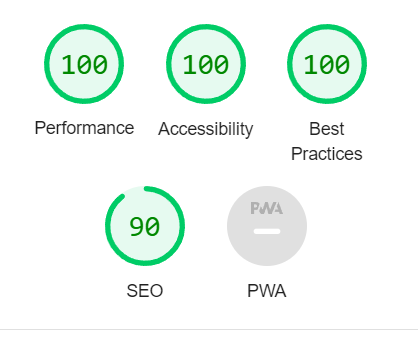
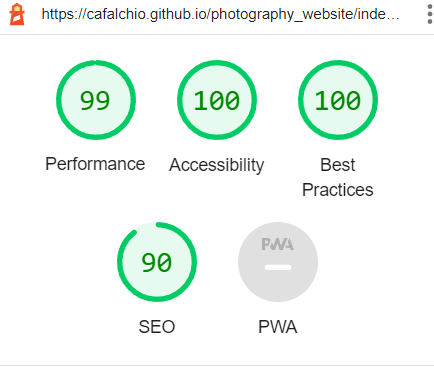
last performance test

diff --git a/README.md b/README.md
@@ -84,10 +84,11 @@ Lighhouse mobile and desktop testing:
 ![LightHouse Desktop](assets/images/readme/light_desktop.png)
 
 The major concerns were the speed to load the images. The images were reduced both in size and optimizila image compressor. The speed increased but it is still a concern in slow phone connection.
+So images were converted to jpg format and the quality was reduced.
 
 ### Unfixed Bugs
 
-Could not find a way to make a button to return to the page after openning a full size image.
+Could not find a way to make a button to return to the page after openning a full size image.git
 
 ## Deployment
 
